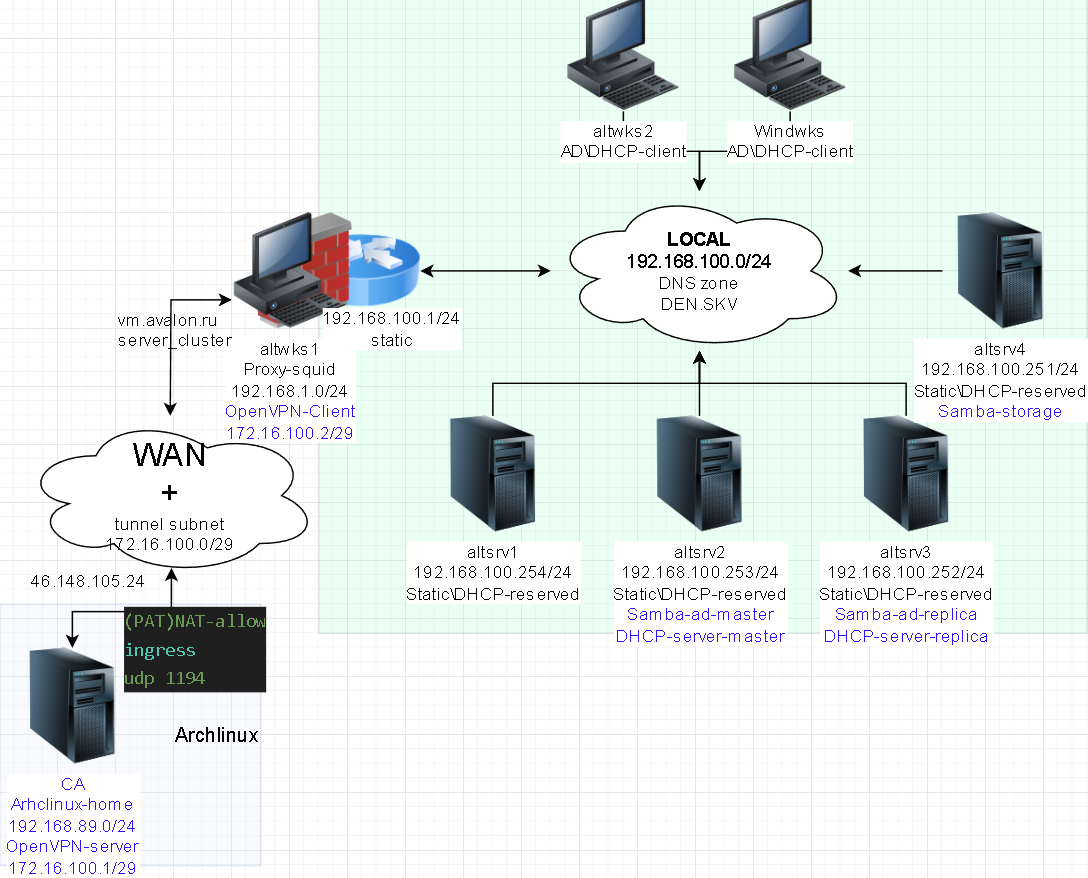
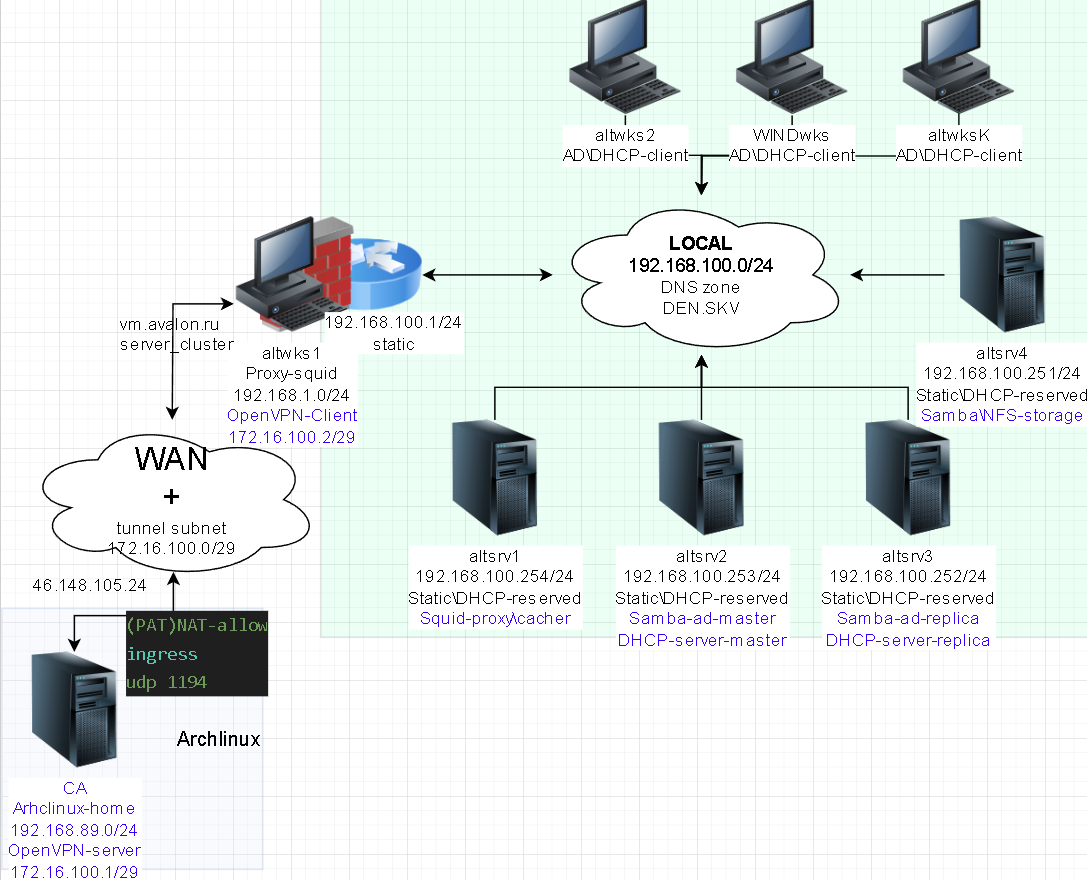
[upd0]ДЛЯ ВКР SQUID служба

diff --git a/VKR/6.SQUID-PROXY.BASH/README.md b/VKR/6.SQUID-PROXY.BASH/README.md
@@ -512,6 +512,49 @@ cp -v /etc/squid/squid.conf{,.bak}
 
 ## Для gitflic и github
 ```bash
+git remote -v
+```
+```log
+altlinux        https://github.com/shoelacevip12/altlinux_study.git (fetch)
+altlinux        https://github.com/shoelacevip12/altlinux_study.git (push)
+altlinux_gf     https://gitflic.ru/project/shoelacevip12/altlinux_study.git (fetch)
+altlinux_gf     https://gitflic.ru/project/shoelacevip12/altlinux_study.git (push)
+```
+```bash
+git remote rm \
+altlinux
+
+git remote rm \
+altlinux_gf
+```
+```bash
+# Добавление источника для авторизации на gitflic по ssh
+git remote add \
+altlinux_gf \
[email redacted]:shoelacevip12/altlinux_study.git
+
+
+# Добавление источника для авторизации на github по ssh
+git remote add \
+altlinux \
[email redacted]:shoelacevip12/altlinux_study.git
+```
+```bash
+git remote -v
+```
+```log
+altlinux        [email redacted]:shoelacevip12/altlinux_study.git (fetch)
+altlinux        [email redacted]:shoelacevip12/altlinux_study.git (push)
+altlinux_gf     [email redacted]:shoelacevip12/altlinux_study.git (fetch)
+altlinux_gf     [email redacted]:shoelacevip12/altlinux_study.git (push
+```
+```bash
+# Добавляем ключи агенту ssh от репозитория gitflic и github
+eval $(ssh-agent) \
+&& ssh-add ~/.ssh/id_gitflic_2026_ed25519 \
+&& ssh-add ~/.ssh/id_github_2026_ed25519 \
+&& ssh-agent -c
+
 git branch -v
 
 git log --oneline